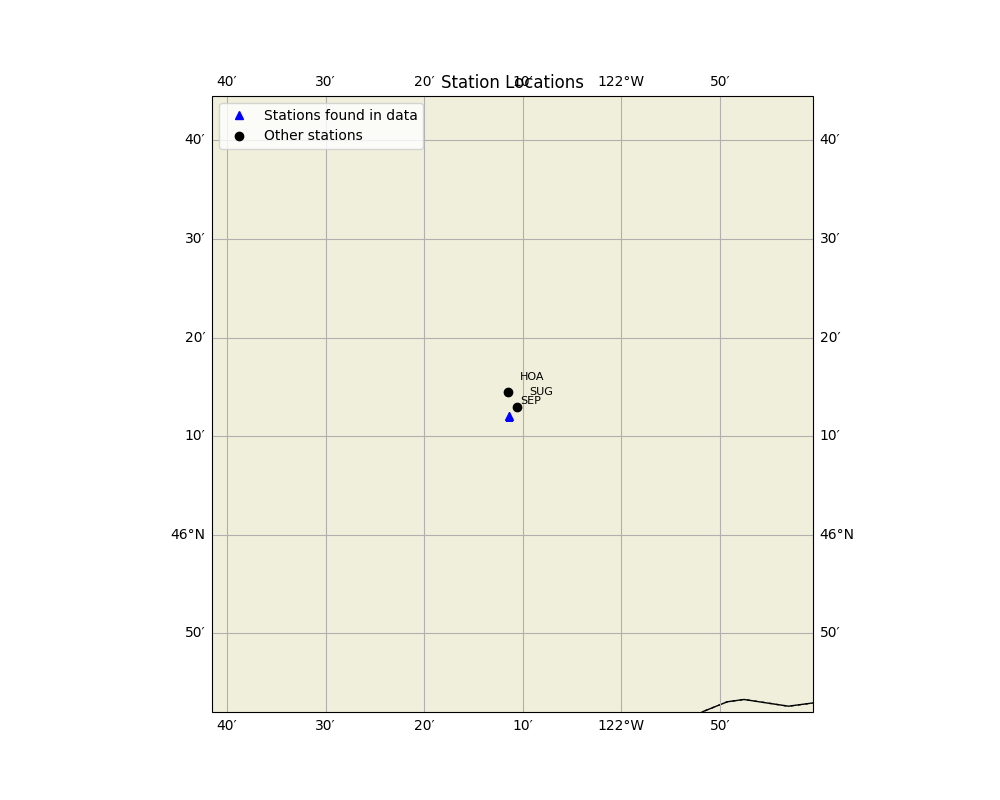
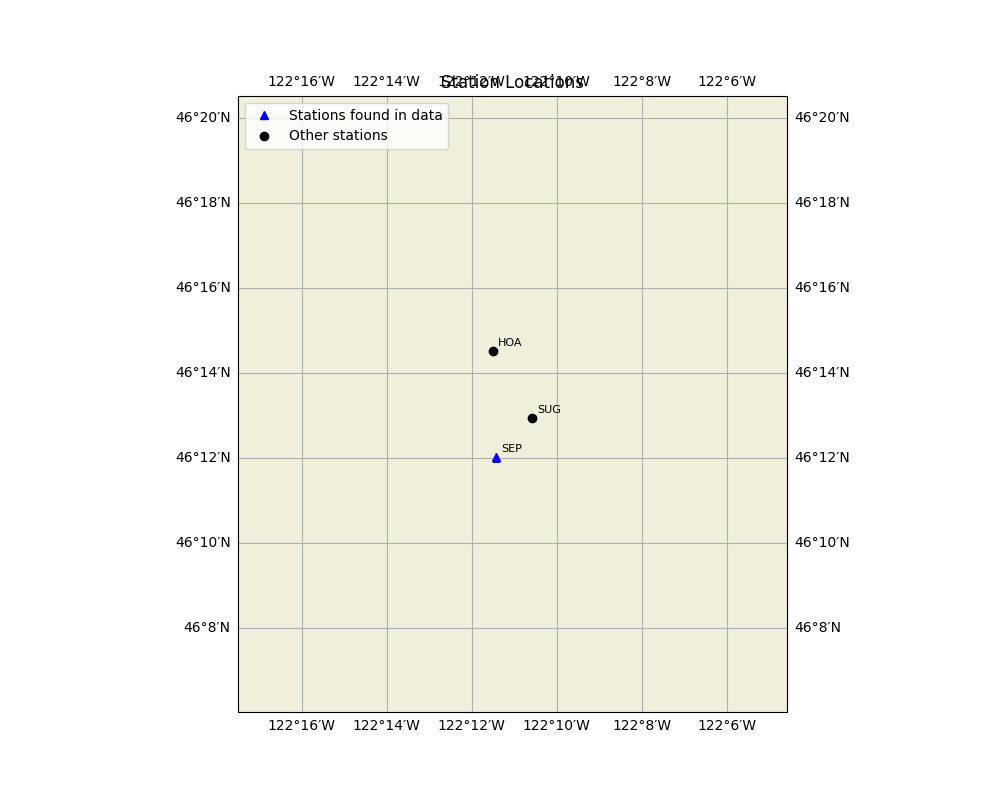
Optimizations

diff --git a/seismic_data.py b/seismic_data.py
@@ -41,7 +41,7 @@ def insert_seismic_data_into_db(streams, db_file):
     '''
     # Connect to a SQLite database (or create one)
     logging.info(f'Insert data into database: {db_file}')
-    conn = sqlite3.connect(db_file)
+    conn = sqlite3.connect(db_file, timeout=10)
     cursor = conn.cursor()
 
     # Create a table for seismic data
@@ -58,16 +58,19 @@ def insert_seismic_data_into_db(streams, db_file):
     ''')
 
     # Insert data into the table
+    cursor.execute('PRAGMA synchronous = OFF;')
+    cursor.execute('PRAGMA journal_mode = MEMORY;')
     for stream_name in sorted(streams.keys()):
         stream = streams[stream_name]
-        logging.info(f'Insert data for stream: {stream_name}')
         for trace in stream:
+            sql_data = []
             metadata = trace.stats
+            trace_times = trace.times('timestamp')
             for i, value in enumerate(trace.data):
-                cursor.execute('''
-                INSERT INTO seismic_data (network, station, location, channel, start_time, amplitude)
-                VALUES (?, ?, ?, ?, ?, ?)''', 
-                (metadata.network, metadata.station, metadata.location, metadata.channel, str(trace.times('utcdatetime')[i]), value))
+                sql_data.append((metadata.network, metadata.station, metadata.location, metadata.channel, trace_times[i], value))
+            cursor.executemany('INSERT INTO seismic_data (network, station, location, channel, timestamp, amplitude) VALUES (?, ?, ?, ?, ?, ?)', sql_data)
+            conn.commit()
+            logging.info(f'Inserted stream {stream_name} trace {str(trace)}')
 
     # Check data
     sql_check = 'SELECT * FROM seismic_data limit 10;'
@@ -76,8 +79,7 @@ def insert_seismic_data_into_db(streams, db_file):
     logging.info('Check SQL data')
     logging.info(f'{sql_check}')
     logging.info(f'{rows}')
-    
-    conn.commit()
+
     conn.close()
 
 def create_helicorder(streams, output):
@@ -137,6 +139,8 @@ def create_map(streams, output):
     )
     ax.add_feature(cfeature.LAND, edgecolor='black')
     ax.add_feature(cfeature.COASTLINE)
+    ax.add_feature(cfeature.RIVERS, edgecolor='blue')
+    ax.add_feature(cfeature.LAKES, edgecolor='blue')
     ax.add_feature(cfeature.BORDERS, linestyle=':')
     ax.add_feature(cfeature.STATES, linestyle='--')
     ax.gridlines(draw_labels=True, dms=True, x_inline=False, y_inline=False)
@@ -148,17 +152,16 @@ def create_map(streams, output):
             ax.plot(lon, lat, marker='^', color='blue', markersize=6, transform=ccrs.PlateCarree())
         else:
             ax.plot(lon, lat, marker='o', color='black', markersize=6, transform=ccrs.PlateCarree())
-        ax.text(lon + 0.02, lat + 0.02, label, fontsize=8, transform=ccrs.PlateCarree())
+        ax.text(lon + 0.002, lat + 0.002, label, fontsize=8, transform=ccrs.PlateCarree())
 
-    print('station_info.values()', station_info.values())
     lats = list(map(lambda x: x['latitude'], station_info.values()))
     lons = list(map(lambda x: x['longitude'], station_info.values()))
-    print([min(lats) - 1, max(lats) + 1, min(lons) - 1, max(lons) + 1])
-    ax.set_extent([min(lons) - 0.5, max(lons) + 0.5, min(lats) - 0.5, max(lats) + 0.5],
+    ax.set_extent([min(lons) - 0.1, max(lons) + 0.1, min(lats) - 0.1, max(lats) + 0.1],
                   crs=ccrs.PlateCarree())
     label1_marker, = ax.plot([], [], '^', color='blue', label='Stations found in data')
     label2_marker, = ax.plot([], [], 'o', color='black', label='Other stations')
     ax.legend(handles=[label1_marker, label2_marker], loc='upper left')
+
     plt.title('Station Locations')
     plt.savefig(output)
     logging.info(f'Save map: {output}')
